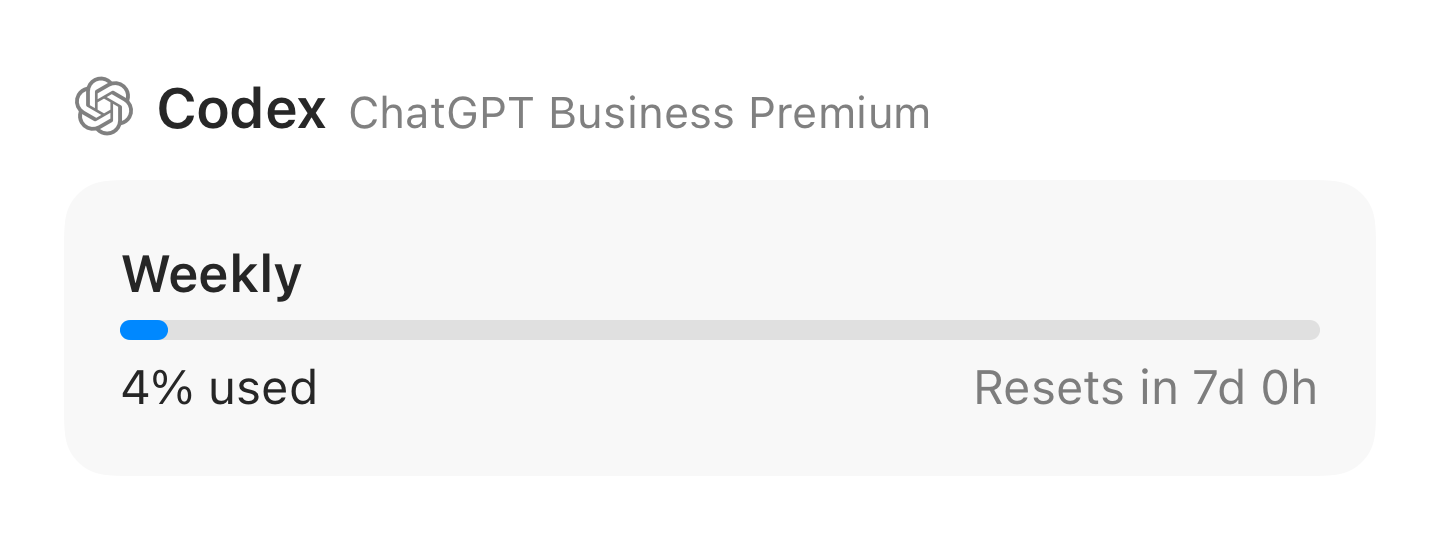
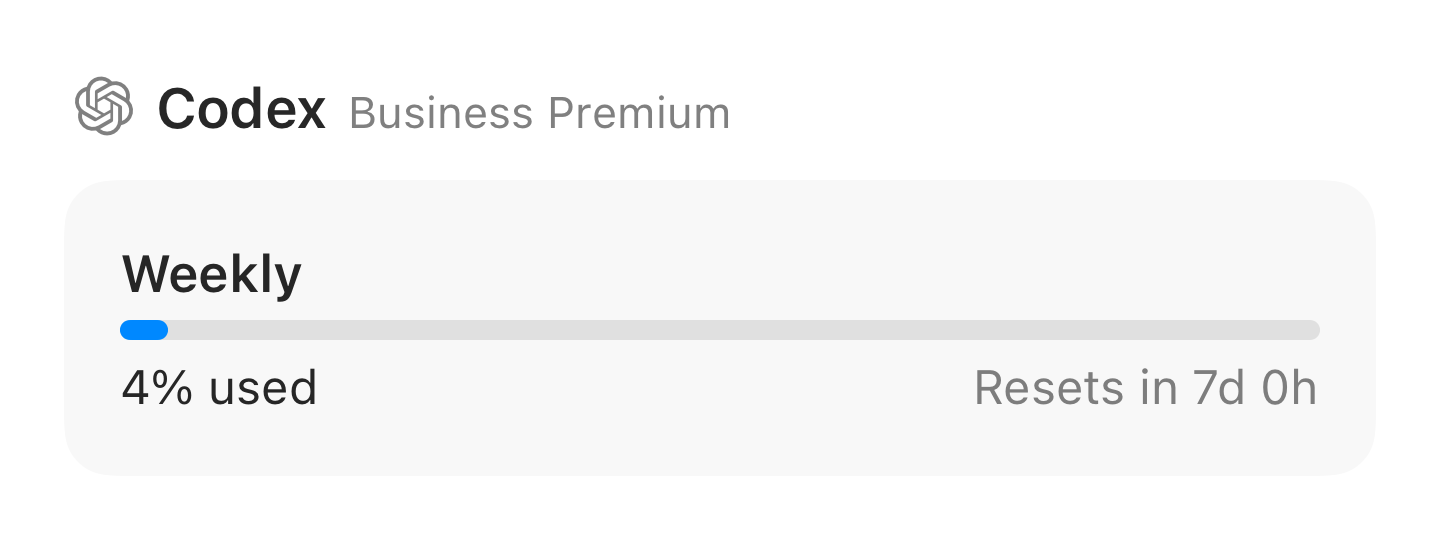
fix(codex): shorten plan label to Business Premium

Changed region(s): [[0.25, 0.1778, 0.6562, 0.237]]

diff --git a/Tests/OpenUsageTests/CodexProviderTests.swift b/Tests/OpenUsageTests/CodexProviderTests.swift
@@ -120,7 +120,7 @@ final class CodexUsageMapperTests: XCTestCase {
             now: Date(timeIntervalSince1970: 1_800_000_000)
         )
 
-        XCTAssertEqual(mapped.plan, "ChatGPT Business Premium")
+        XCTAssertEqual(mapped.plan, "Business Premium")
         XCTAssertEqual(mapped.lines.map(\.label), ["Weekly"])
         XCTAssertNil(progress(mapped.lines, "Session"))
         XCTAssertEqual(progress(mapped.lines, "Weekly")?.used, 5)

diff --git a/Sources/OpenUsage/Providers/Codex/CodexUsageMapper.swift b/Sources/OpenUsage/Providers/Codex/CodexUsageMapper.swift
@@ -326,7 +326,7 @@ enum CodexUsageMapper {
         case "pro":
             return "Pro 20x"
         case "self_serve_business_prolite":
-            return "ChatGPT Business Premium"
+            return "Business Premium"
         default:
             return raw.titleCased(separator: { $0 == "_" })
         }

diff --git a/docs/providers/codex.md b/docs/providers/codex.md
@@ -14,7 +14,7 @@ Tracks your ChatGPT/Codex subscription limits using the login from the Codex CLI
 | Today / Yesterday / Last 30 Days | Local spend, as cost, tokens, or both (see below) |
 
 When Codex reports your plan name, OpenUsage shows it beside the provider name.
-The usage entitlement `self_serve_business_prolite` displays as **ChatGPT Business Premium**.
+The usage entitlement `self_serve_business_prolite` displays as **Business Premium**.
 This is a compatibility mapping for an observed entitlement; other Business/team plans keep their existing names.
 If Codex reports only a 7-day window, it maps to Weekly without inventing a 5-hour Session meter.
 
